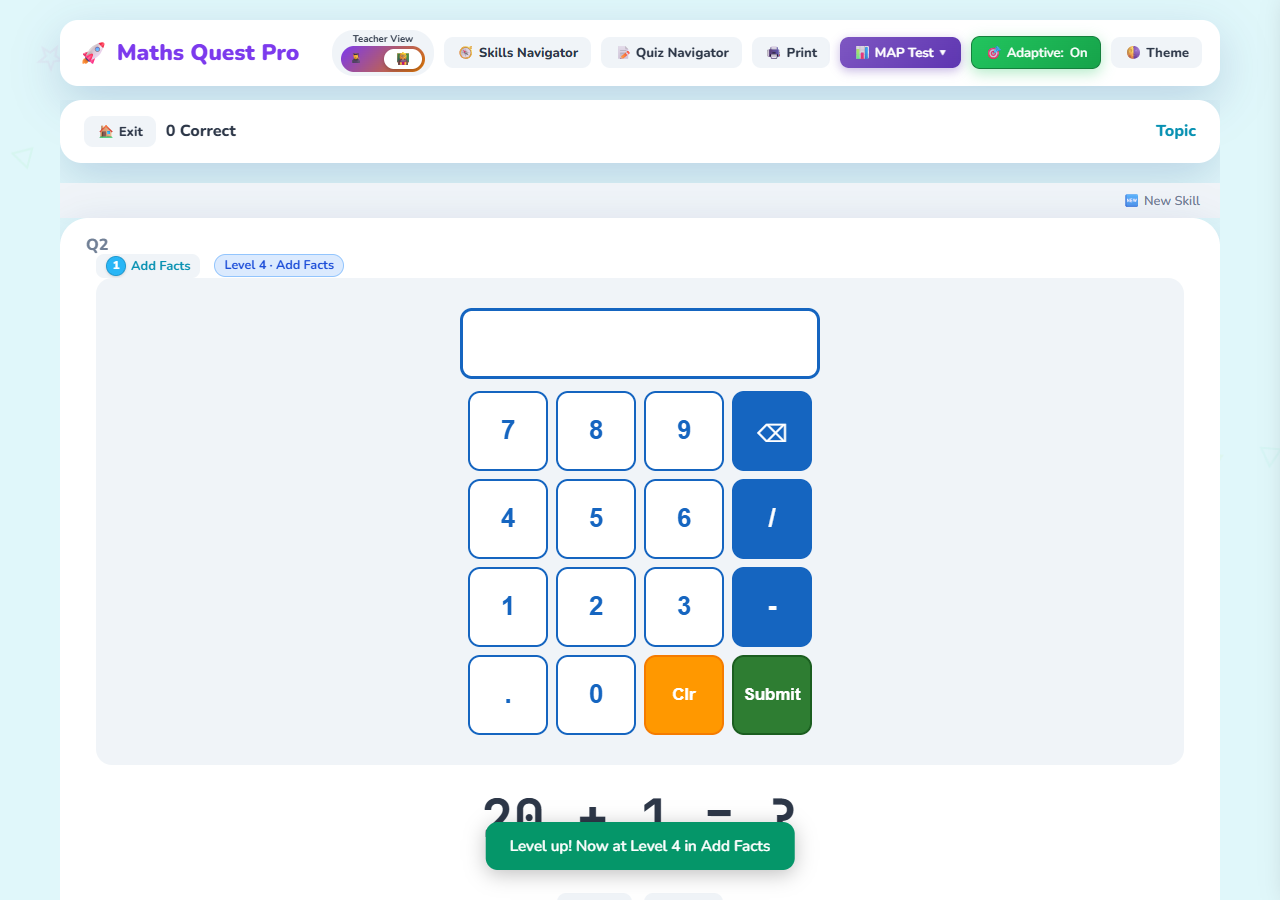
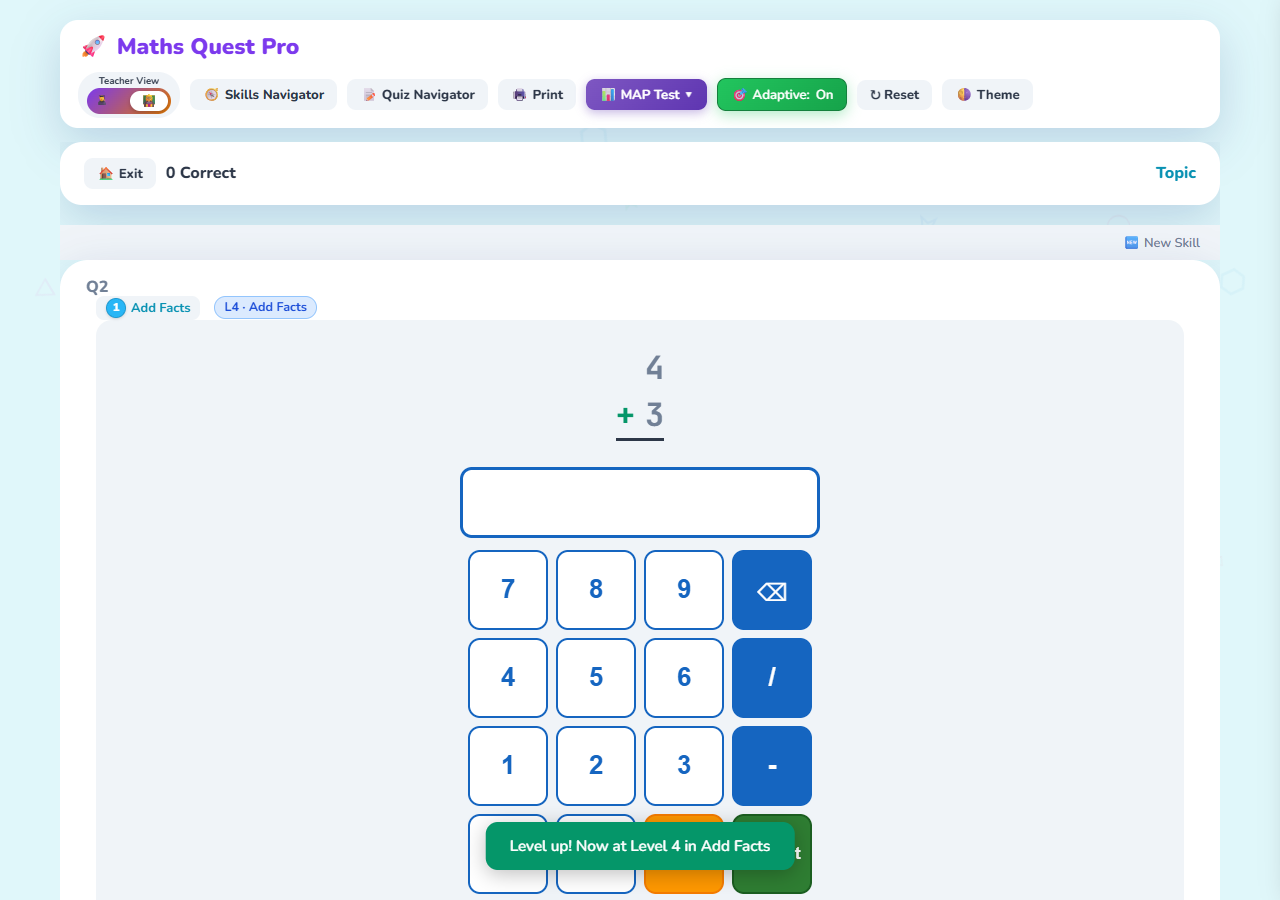
Adaptive Mode polish: compact chip text, top-nav reset, dark-mode contrast, worksheet/quiz carve-out
Four small UX polish items for Whole-Program Adaptive Mode:

1. Compact level chip text — chip now reads "L3 · {short label}" instead of
   "Level 3 · {full label}", with a 16-char truncation + ellipsis on the label.
   Color coding (1=red ... 5=green) is preserved.

2. Reset Levels button moved to top nav — a small "↻ Reset" button now sits
   immediately to the right of the "🎯 Adaptive: On/Off" toggle and is shown
   only while Adaptive Mode is ON. Confirmation dialog preserved. The
   settings-panel block is now informational text only.

3. Dark-mode chip contrast — added per-level dark-mode overrides keyed off the
   chip's new data-level attribute so all 5 colors (especially L3 grey) remain
   readable on dark cards.

4. Worksheet/Quiz carve-out — applyAdaptiveSettingsForNextQuestion now short-
   circuits when state.gameMode === 'worksheet' or state.quizMode === true.
   Worksheets and quizzes are fixed-difficulty by design (teachers want
   predictable problem sets); adaptive bias would defeat that. The carve-out
   is mirrored at the call site in generate-question.js with an explanatory
   comment, alongside the existing MAP-mode carve-out.

Updated test-feature-visual-verify.cjs regexes from "Level 3/4" to "L3/L4" to
match the new compact chip text. All 7 critical tests pass.

diff --git a/js/modules/adaptive-engine.js b/js/modules/adaptive-engine.js
@@ -205,8 +205,16 @@ export function applyAdaptiveLevelToQuestion(q, skillId) {
 // call so generators emit harder/easier numbers. Returns a restore function the
 // caller MUST call after the question is fully generated. Saves the original
 // values so adaptive mode can never permanently mutate user settings.
+//
+// Carve-out: Worksheet and Quiz flows are FIXED-difficulty by design — teachers
+// want predictable problem sets and students go through them in order. Adaptive
+// must NOT bias these flows, so we short-circuit on `state.gameMode==='worksheet'`
+// and `state.quizMode===true`. MAP mode is also skipped (it owns its own engine
+// in map-engine.js); that check lives at the call site in generate-question.js.
 export function applyAdaptiveSettingsForNextQuestion(skillId) {
     if (!state.adaptiveModeEnabled) return () => {};
+    if (state.gameMode === 'worksheet') return () => {};
+    if (state.quizMode === true) return () => {};
     const id = skillId || state.skill;
     if (!id) return () => {};
 
@@ -239,13 +247,19 @@ export function applyAdaptiveSettingsForNextQuestion(skillId) {
     };
 }
 
-// Update the on-screen toggle label (#adaptiveStatus) and active class.
+// Update the on-screen toggle label (#adaptiveStatus) and active class. Also
+// show/hide the top-nav "↻ Reset" button — it's only meaningful while adaptive
+// mode is ON, so we hide the entire wrapper otherwise.
 function updateAdaptiveStatusUI() {
     if (typeof document === 'undefined') return;
     const status = document.getElementById('adaptiveStatus');
     if (status) status.textContent = state.adaptiveModeEnabled ? 'On' : 'Off';
     const buttons = document.querySelectorAll('.adaptive-toggle');
     buttons.forEach(btn => btn.classList.toggle('active', !!state.adaptiveModeEnabled));
+    const resetWrap = document.getElementById('adaptiveResetWrap');
+    if (resetWrap) {
+        resetWrap.style.display = state.adaptiveModeEnabled ? '' : 'none';
+    }
 }
 
 // Restore only the saved per-skill levels from localStorage. Used by
@@ -347,6 +361,13 @@ export function renderAdaptiveLevelChip(skillId) {
     chip.style.background = colors.bg;
     chip.style.color = colors.fg;
     chip.style.borderColor = colors.border;
+    chip.dataset.level = String(lvl);
     chip.title = `Adaptive level ${lvl} of 5 for ${skillLabel}`;
-    chip.textContent = `Level ${lvl} · ${skillLabel}`;
+    // Compact form: "L3 · short label" — truncate label to 16 chars to keep the
+    // chip readable next to verbose skill names (...append ellipsis if longer).
+    const MAX_LABEL = 16;
+    const shortLabel = (typeof skillLabel === 'string' && skillLabel.length > MAX_LABEL)
+        ? skillLabel.slice(0, MAX_LABEL).trimEnd() + '…'
+        : skillLabel;
+    chip.textContent = `L${lvl} · ${shortLabel}`;
 }

diff --git a/index.html b/index.html
@@ -95,6 +95,10 @@
                     <button class="btn btn-sm btn-secondary adaptive-toggle" onclick="toggleAdaptiveMode()" title="Adaptive Mode: questions adjust to student level">🎯 Adaptive: <span id="adaptiveStatus">Off</span></button>
                     <span class="nav-bubble-tip">Adaptive Mode adjusts each skill's difficulty based on student performance</span>
                 </div>
+                <div class="nav-tip-wrap" id="adaptiveResetWrap" style="display:none;">
+                    <button id="adaptiveResetNavBtn" class="btn btn-sm btn-secondary" onclick="confirmResetAdaptiveLevels()" title="Reset all per-skill adaptive levels back to Level 3">↻ Reset</button>
+                    <span class="nav-bubble-tip">Reset all adaptive levels back to Level 3 (scores stay intact)</span>
+                </div>
                 <div class="nav-tip-wrap">
                     <button class="btn btn-sm btn-secondary" onclick="toggleTheme()">🌗 Theme</button>
                     <span class="nav-bubble-tip">Switch between light and dark mode</span>
@@ -233,15 +237,12 @@
                     </p>
                 </div>
 
-                <!-- Adaptive Mode controls (visible in both roles) -->
+                <!-- Adaptive Mode info (toggle and reset live in the top nav row) -->
                 <div class="settings-group">
                     <div class="settings-group-title">🎯 Adaptive Mode</div>
-                    <p style="font-size:0.85rem;color:var(--text-dim);line-height:1.5;margin:0 0 10px 0;">
-                        Each skill has its own difficulty level (1-5). Resetting clears all per-skill levels back to Level 3 — your scores and progress stay intact.
+                    <p style="font-size:0.85rem;color:var(--text-dim);line-height:1.5;margin:0;">
+                        Each skill has its own difficulty level (1-5). Use the <strong>Adaptive</strong> toggle in the top bar to turn it on or off; the <strong>↻ Reset</strong> button next to it clears all per-skill levels back to Level 3 (scores and progress stay intact).
                     </p>
-                    <button id="resetAdaptiveLevelsBtn" class="btn btn-secondary" onclick="confirmResetAdaptiveLevels()" style="width:100%;">
-                        🔄 Reset Adaptive Levels
-                    </button>
                 </div>
             </div>
         </div>

diff --git a/js/modules/generate-question.js b/js/modules/generate-question.js
@@ -50,9 +50,15 @@ export function generateQuestion() {
     // (or swap to an _easy/_hard variant) BEFORE generation, then restore at the
     // end so user-selected settings are never permanently mutated. MAP mode
     // (state.mapMode) is fully owned by map-engine.js and is NEVER touched here.
+    // Worksheet (state.gameMode==='worksheet') and Quiz (state.quizMode===true)
+    // are also carved out — they are fixed-difficulty by design (teachers want
+    // predictable problem sets). The applyAdaptiveSettingsForNextQuestion helper
+    // double-checks these flags, but we skip the call entirely as a fast path.
     let _adaptiveSkillId = null;
     let _restoreAdaptive = null;
-    if (typeof window !== 'undefined' && state.adaptiveModeEnabled && !state.mapMode
+    const _adaptiveAllowed = state.adaptiveModeEnabled && !state.mapMode
+        && state.gameMode !== 'worksheet' && state.quizMode !== true;
+    if (typeof window !== 'undefined' && _adaptiveAllowed
         && typeof window.applyAdaptiveSettingsForNextQuestion === 'function') {
         _adaptiveSkillId = state.skill;
         _restoreAdaptive = window.applyAdaptiveSettingsForNextQuestion(_adaptiveSkillId);
@@ -468,7 +474,8 @@ export function generateQuestion() {
 
     // Adaptive mode: tag the question with its level for downstream UI, then
     // restore any temporarily-overridden state (range / decimals / skill swap).
-    if (typeof window !== 'undefined' && state.adaptiveModeEnabled && !state.mapMode
+    // Same carve-out as the pre-generation hook above.
+    if (typeof window !== 'undefined' && _adaptiveAllowed
         && typeof window.applyAdaptiveLevelToQuestion === 'function') {
         window.applyAdaptiveLevelToQuestion(q, _adaptiveSkillId);
     }

diff --git a/css/ui-components.css b/css/ui-components.css
@@ -69,6 +69,42 @@
     background: linear-gradient(135deg, #16a34a, #15803d);
 }
 
+/* Dark-mode contrast overrides for the per-skill adaptive level chip. The
+   inline pastel backgrounds set by renderAdaptiveLevelChip() wash out on dark
+   cards (especially L3 grey #e5e7eb), so we override per-level with darker
+   palettes here. !important is needed because renderAdaptiveLevelChip writes
+   inline styles. */
+.dark .adaptive-level-chip[data-level="1"],
+.dark-theme .adaptive-level-chip[data-level="1"] {
+    background: #7f1d1d !important;
+    color: #fee2e2 !important;
+    border-color: #b91c1c !important;
+}
+.dark .adaptive-level-chip[data-level="2"],
+.dark-theme .adaptive-level-chip[data-level="2"] {
+    background: #7c2d12 !important;
+    color: #ffedd5 !important;
+    border-color: #c2410c !important;
+}
+.dark .adaptive-level-chip[data-level="3"],
+.dark-theme .adaptive-level-chip[data-level="3"] {
+    background: #4b5563 !important;
+    color: #f3f4f6 !important;
+    border-color: #9ca3af !important;
+}
+.dark .adaptive-level-chip[data-level="4"],
+.dark-theme .adaptive-level-chip[data-level="4"] {
+    background: #1e3a8a !important;
+    color: #dbeafe !important;
+    border-color: #2563eb !important;
+}
+.dark .adaptive-level-chip[data-level="5"],
+.dark-theme .adaptive-level-chip[data-level="5"] {
+    background: #14532d !important;
+    color: #dcfce7 !important;
+    border-color: #16a34a !important;
+}
+
 .history-filter-btn {
     background: var(--bg-card-light);
     color: var(--text-secondary);
